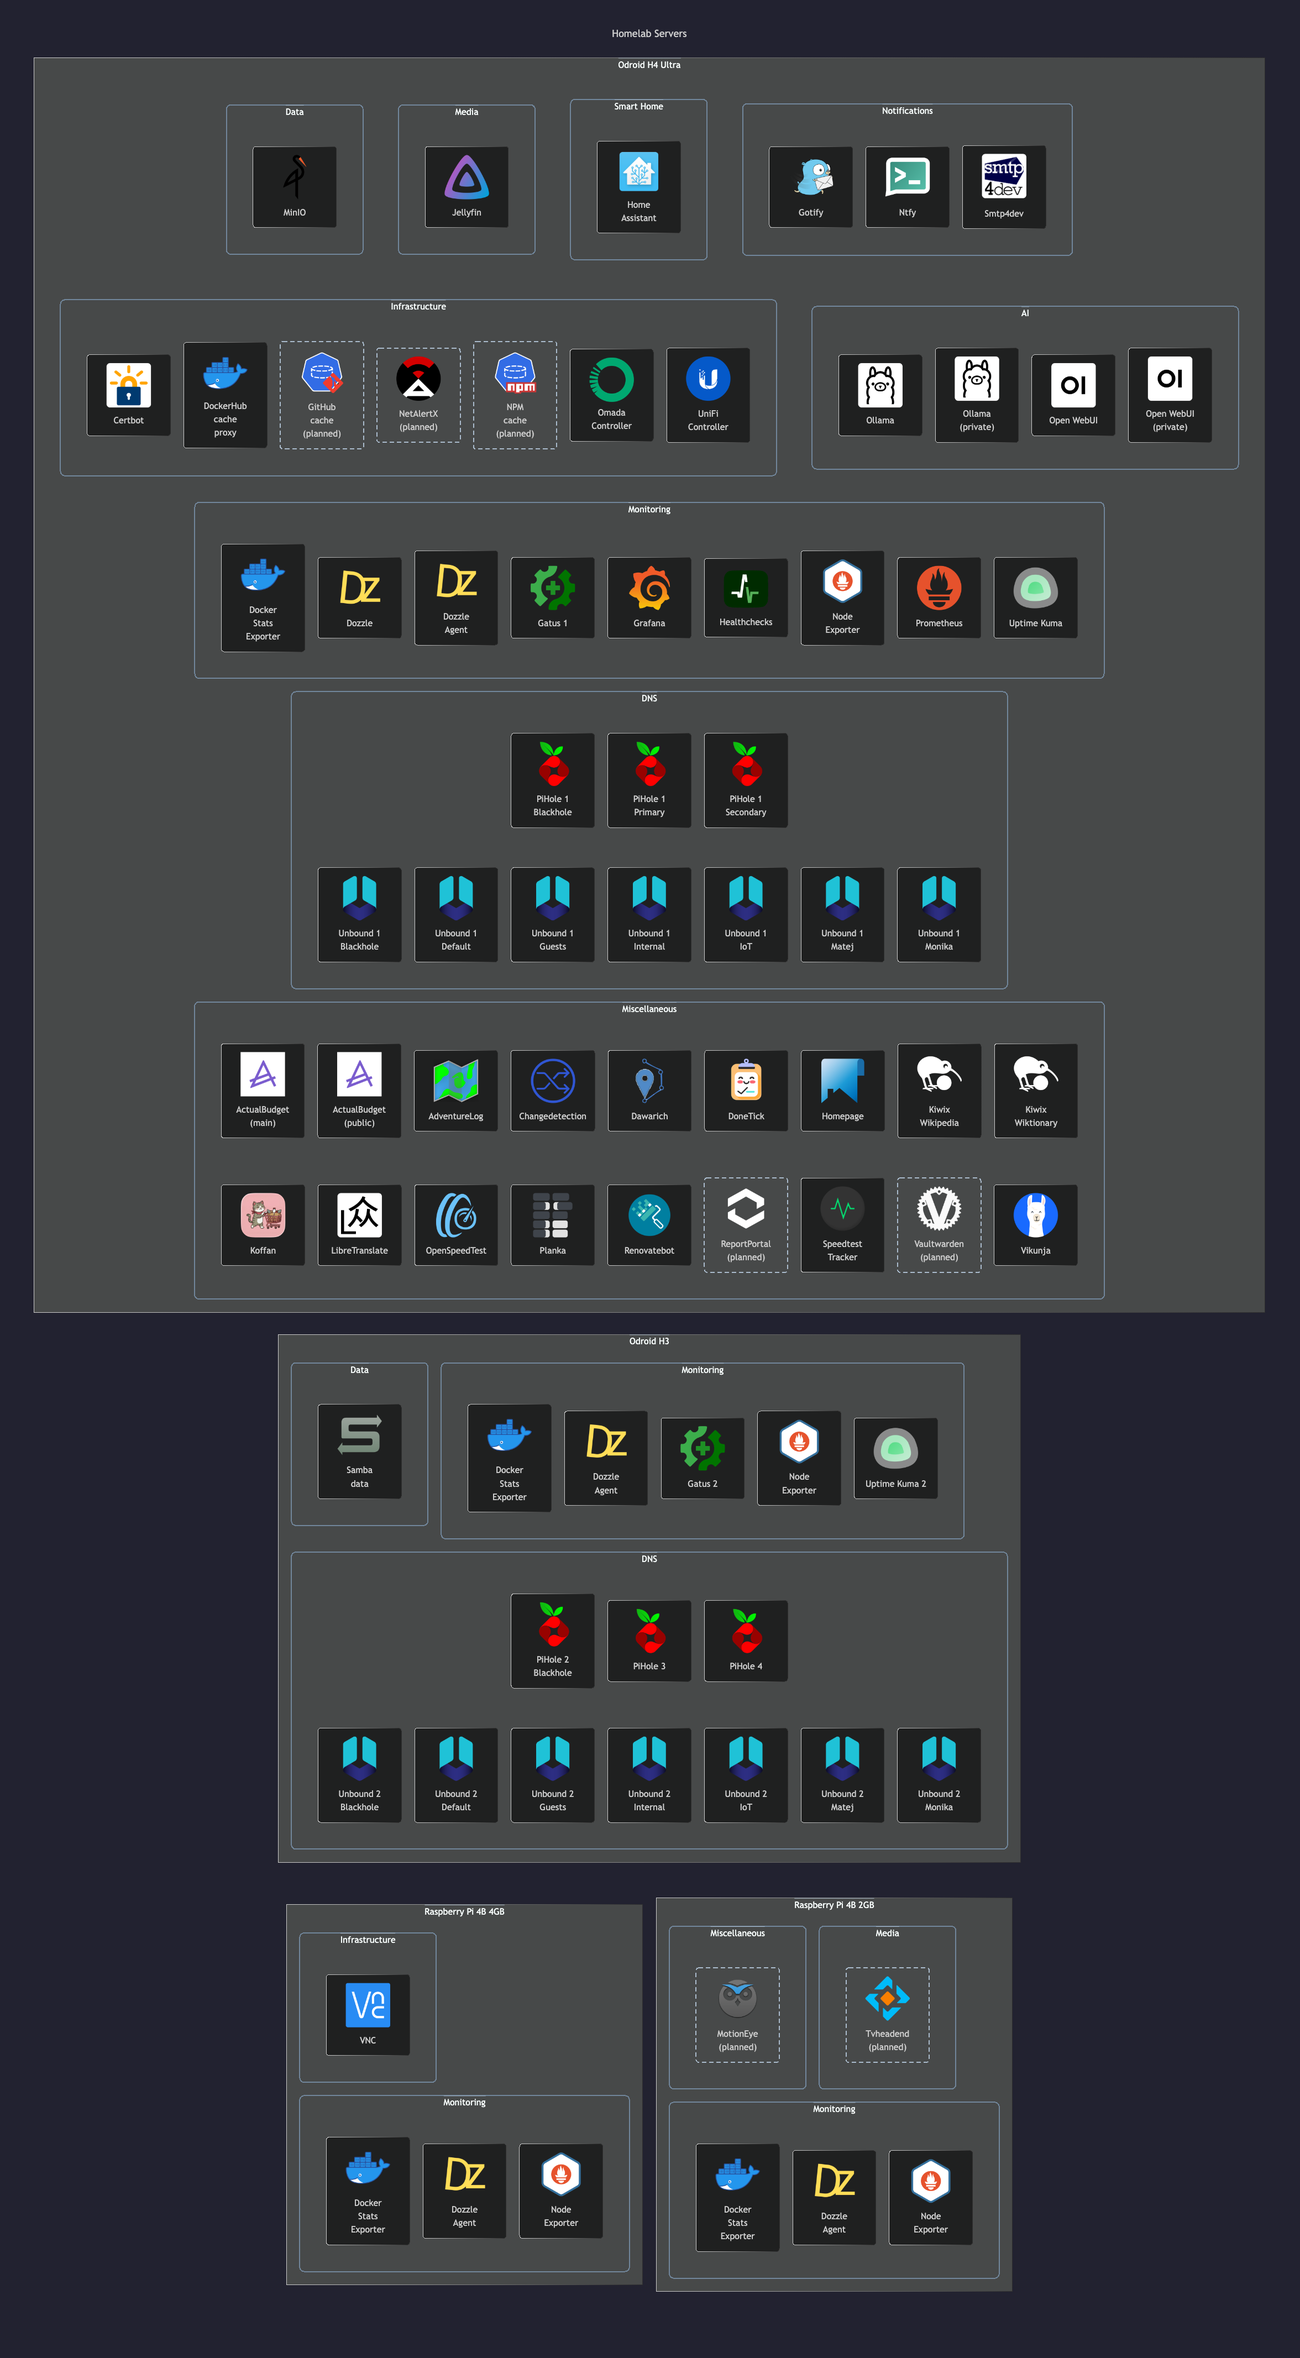
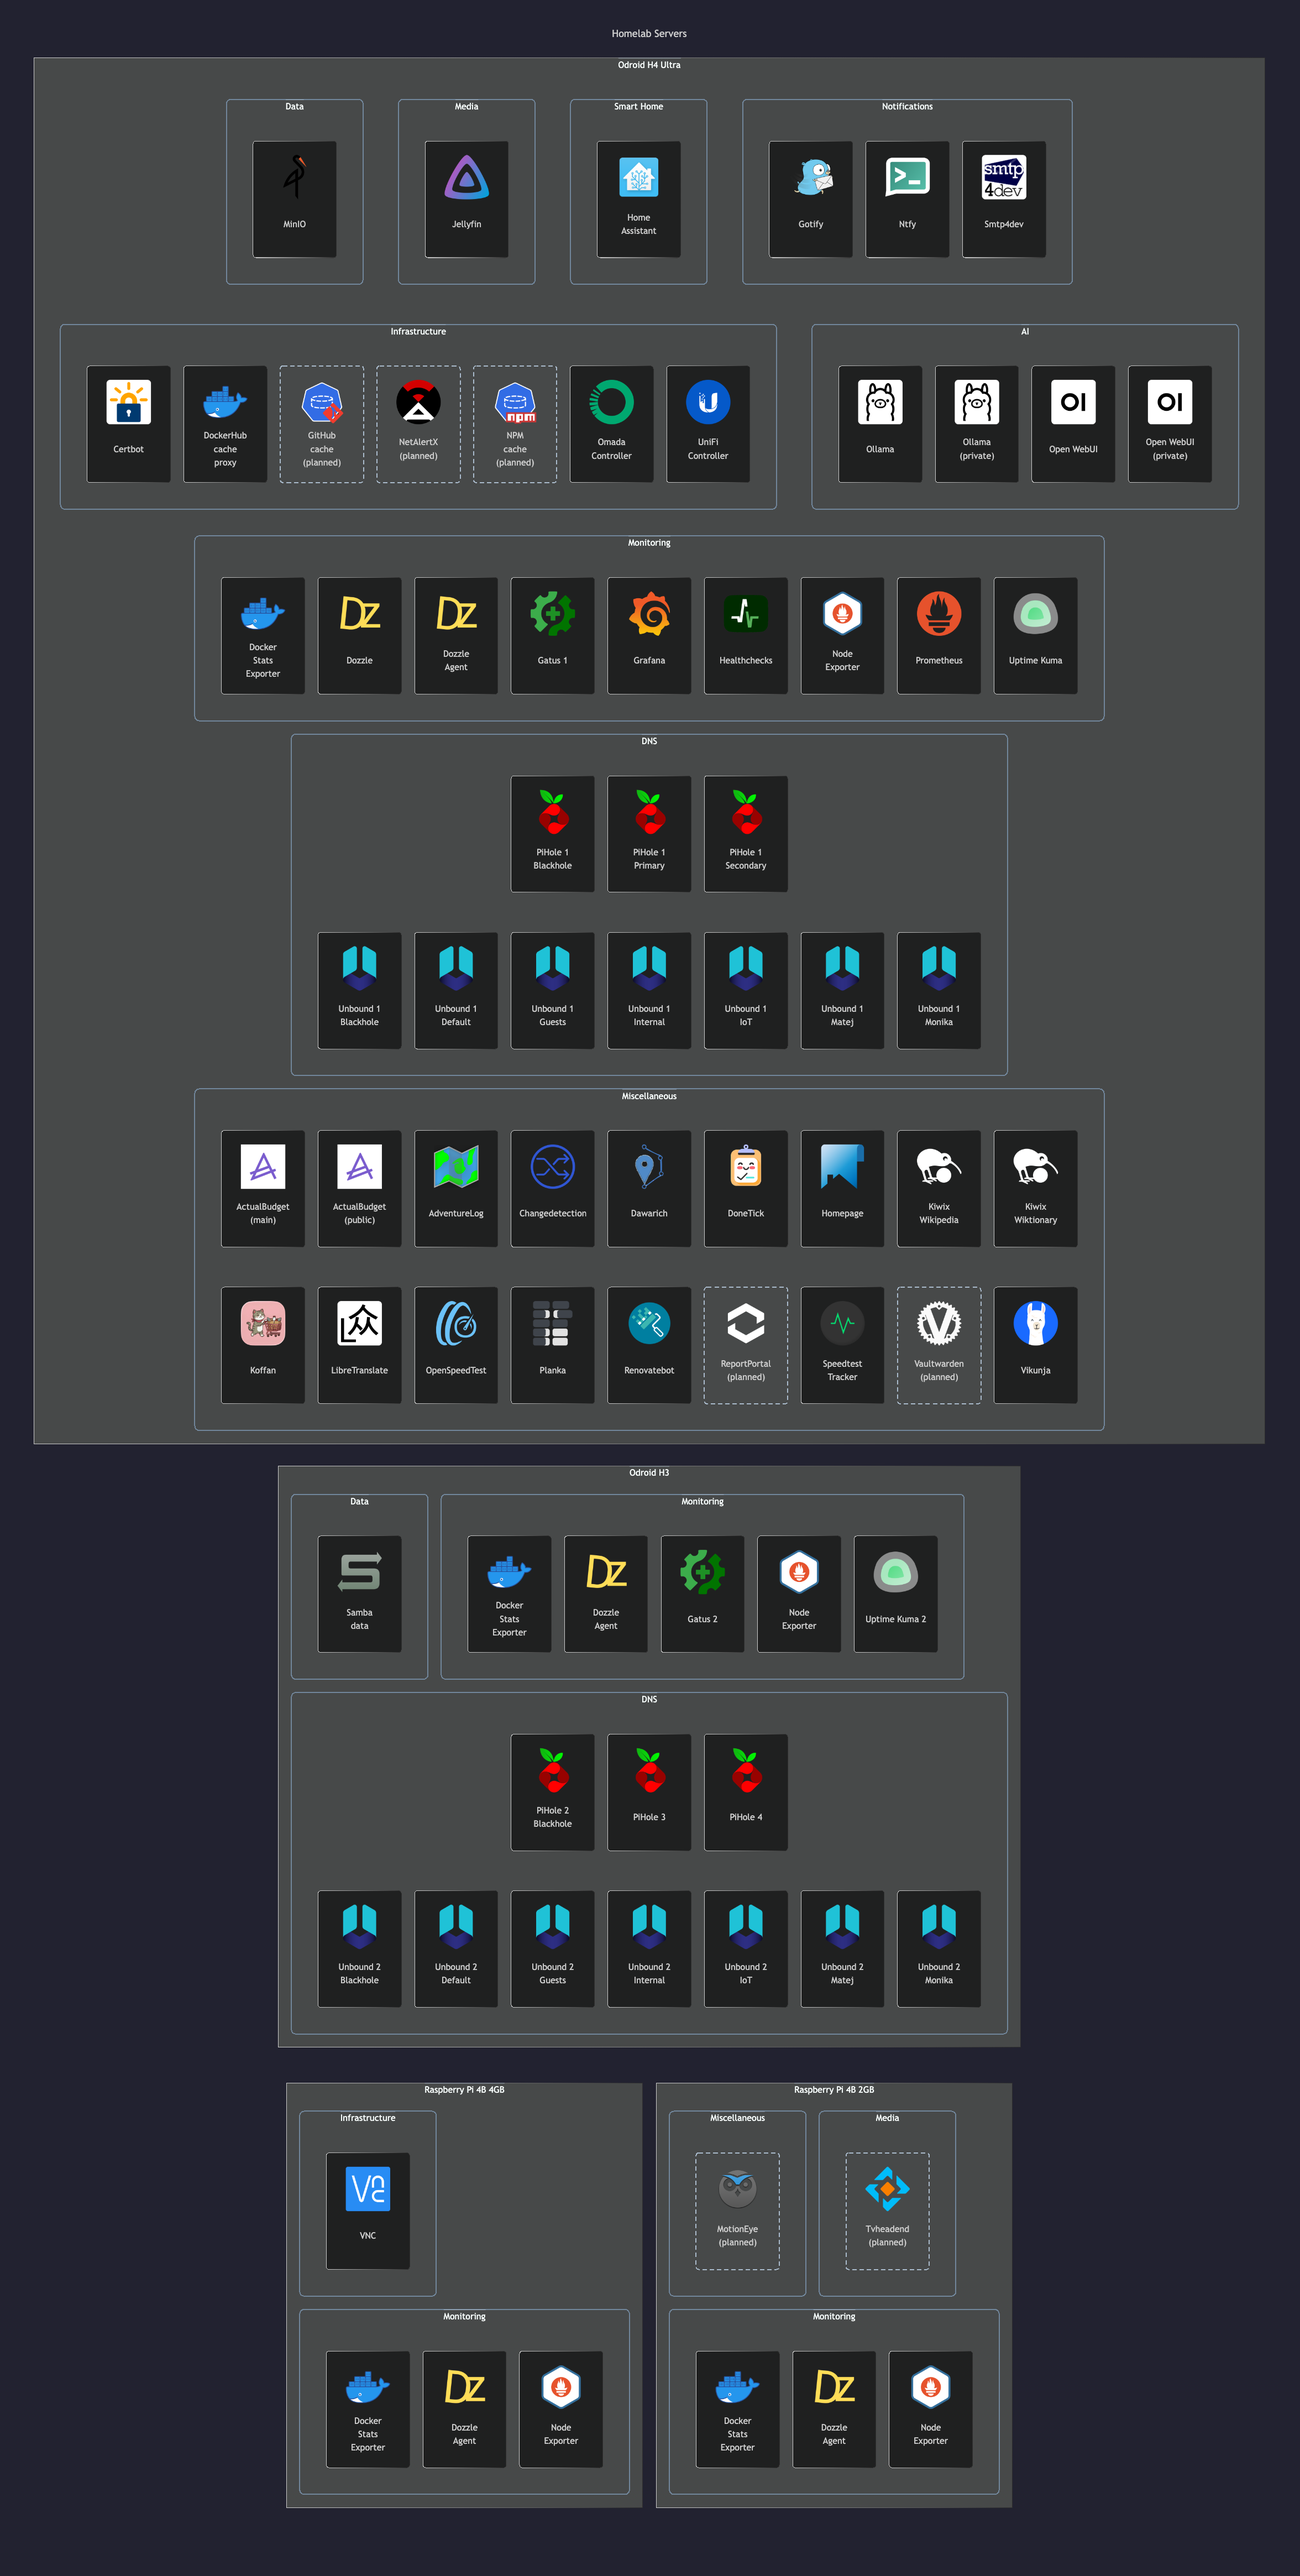
docs: make node cards with consistent size in homelab diagram

diff --git a/docs/diagrams/style.css b/docs/diagrams/style.css
@@ -37,3 +37,30 @@
   filter: none !important;
   shape-rendering: crispEdges;
 }
+
+.custom-node {
+  height:180px;
+  width:120px;
+  display:flex;
+  flex-direction:column;
+  align-items:center;
+  box-sizing:border-box;
+  padding: 10px 0 0 0;
+}
+
+.custom-node img {
+  width:80px;
+  min-width:80px;
+  max-width:80px;
+  margin:0 auto;
+}
+
+.custom-node p {
+  margin:0 auto;
+  flex:1;
+  display:flex;
+  align-items:center;
+  justify-content:center;
+  text-align:center;
+  line-height:1.5;
+}
